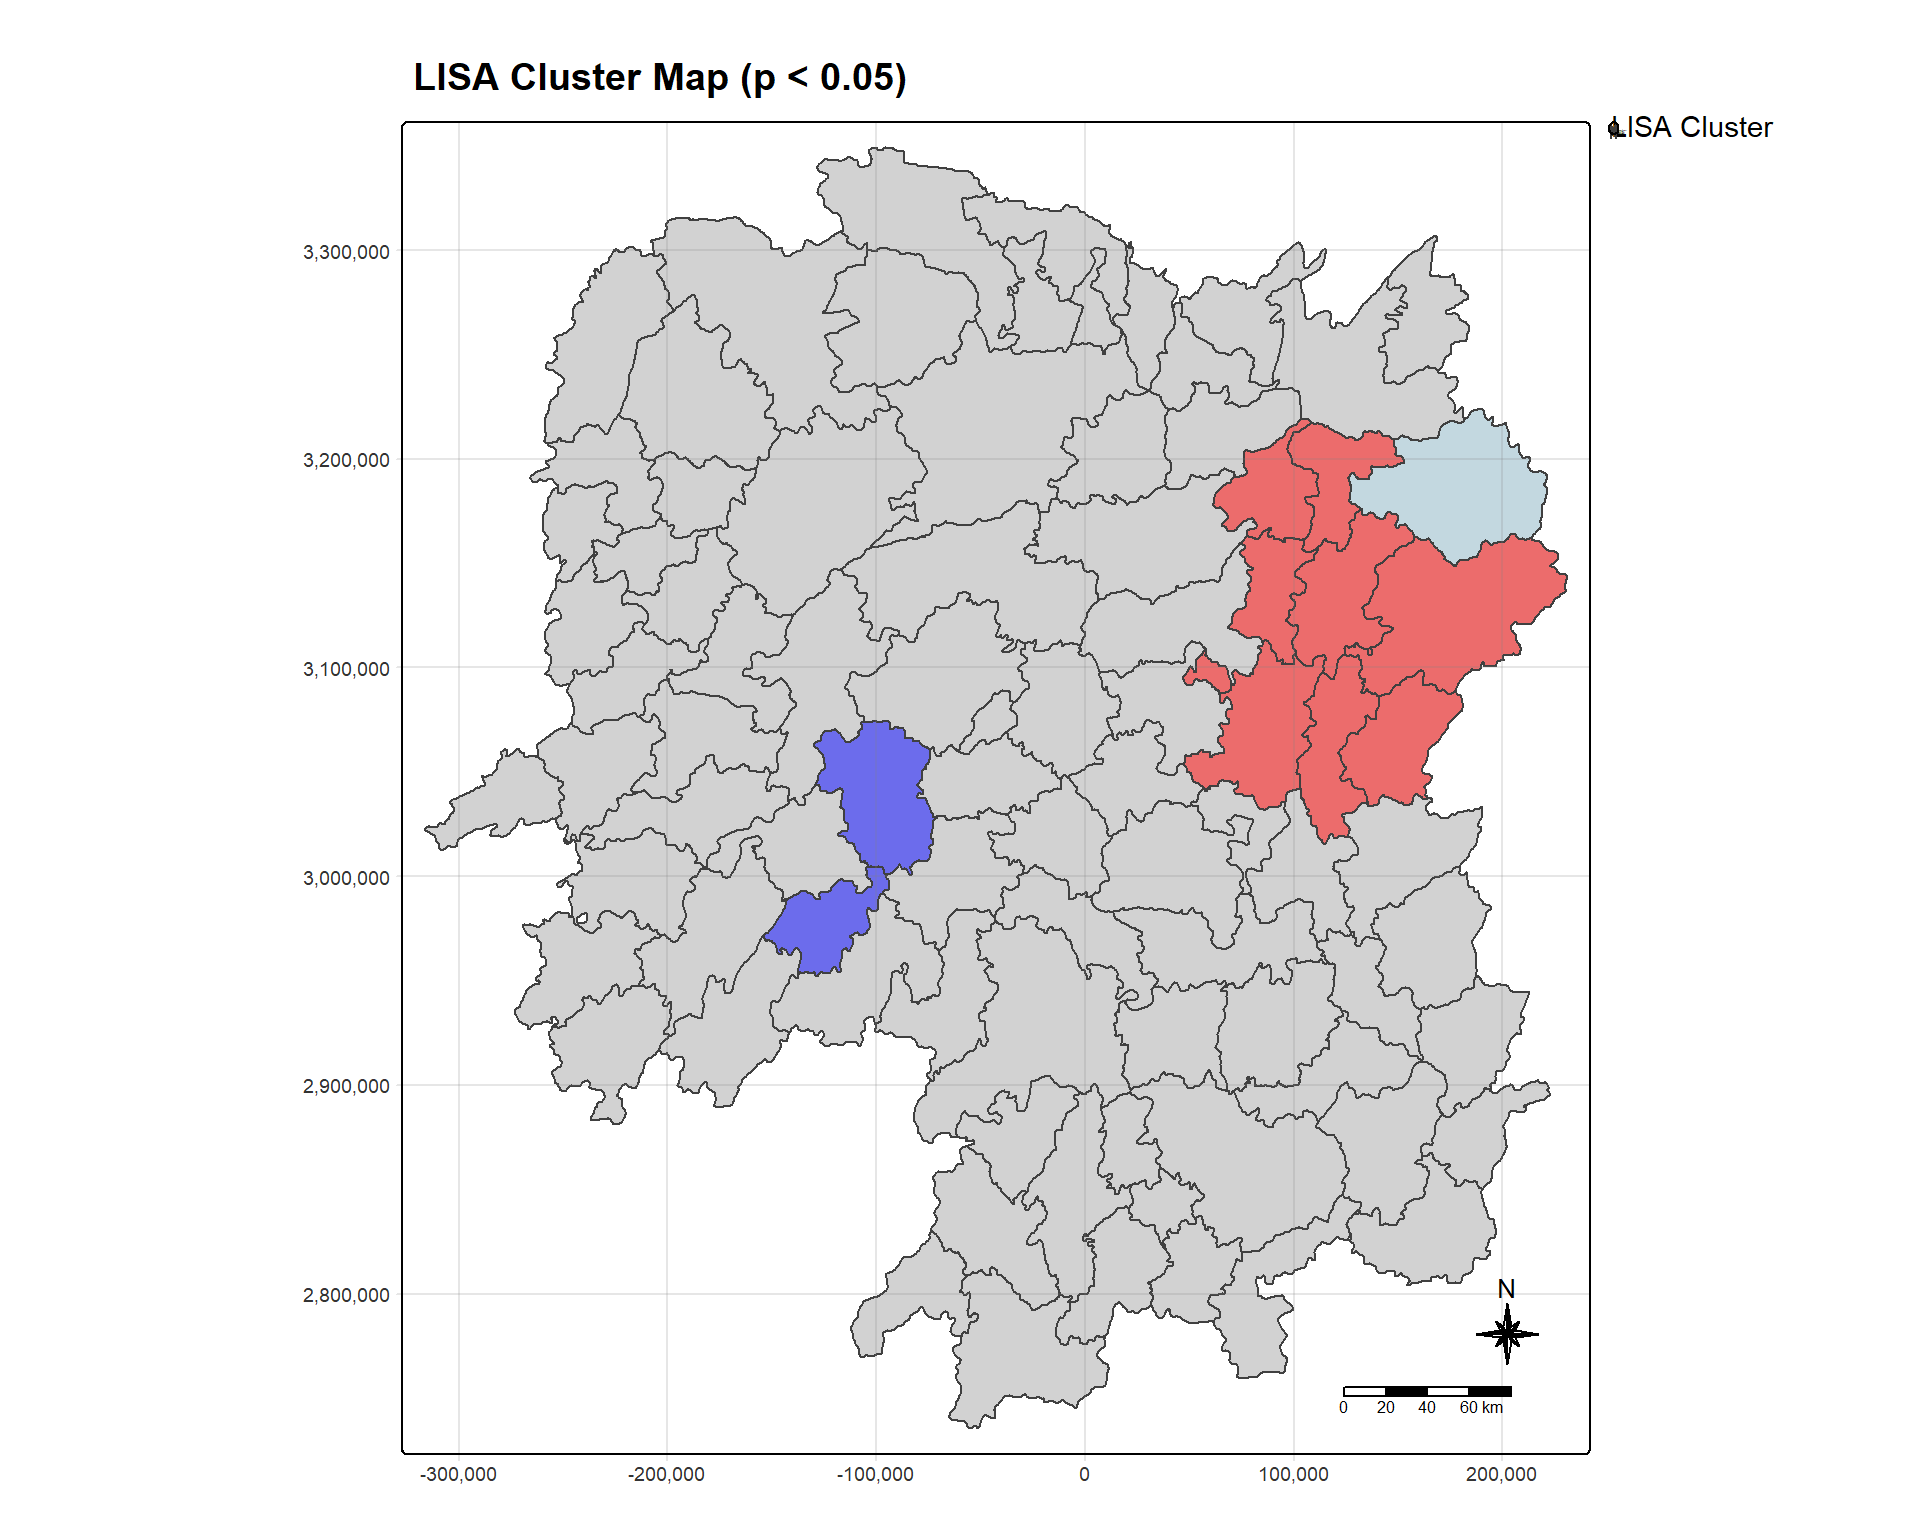
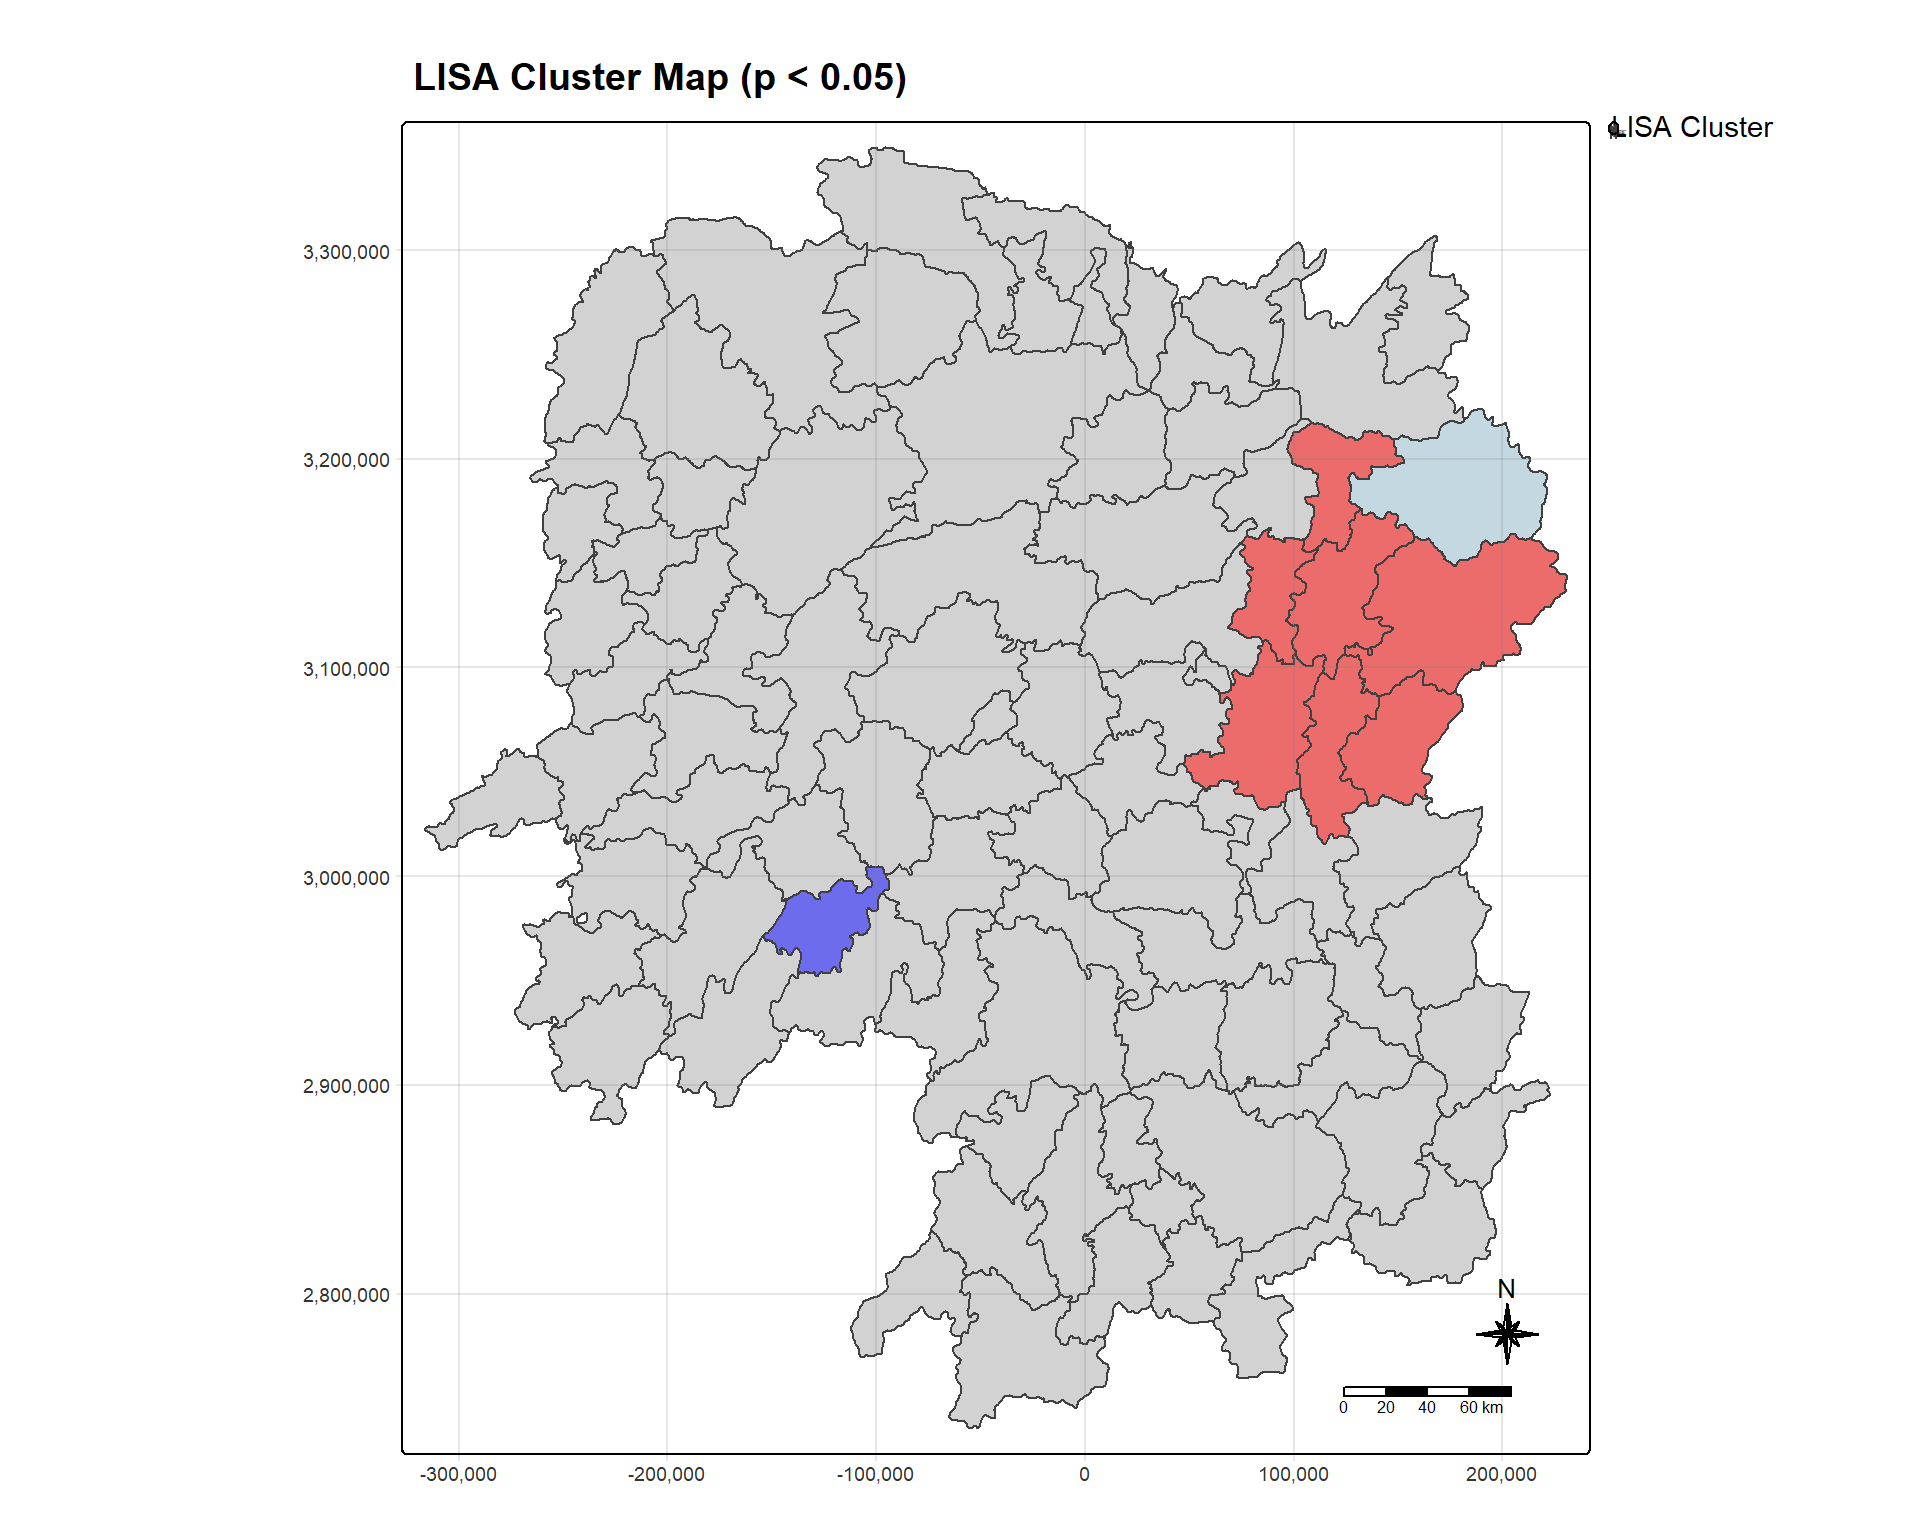
05ab

Changed region(s): [[0.4062, 0.4688, 0.5, 0.5625], [0.625, 0.2812, 0.6875, 0.375], [0.625, 0.4375, 0.6562, 0.4688]]

diff --git a/_site/Hands-on_Ex/Hands-on_ex05/ex05b.html b/_site/Hands-on_Ex/Hands-on_ex05/ex05b.html
@@ -6,8 +6,8 @@
 
 <meta name="viewport" content="width=device-width, initial-scale=1.0, user-scalable=yes">
 
-<meta name="author" content="Your Name">
-<meta name="dcterms.date" content="2025-11-07">
+<meta name="author" content="HUANG PENGXIN">
+<meta name="dcterms.date" content="2025-11-09">
 
 <title>Hands-on Exercise 05b: Local Measures of Spatial Autocorrelation – ISSS626 Portfolio — HUANG PENGXIN</title>
 <style>
@@ -301,14 +301,14 @@ pre > code.sourceCode > span > a:first-child::before { text-decoration: underlin
     <div>
     <div class="quarto-title-meta-heading">Author</div>
     <div class="quarto-title-meta-contents">
-             <p>Your Name </p>
+             <p>HUANG PENGXIN </p>
           </div>
   </div>
     
     <div>
     <div class="quarto-title-meta-heading">Published</div>
     <div class="quarto-title-meta-contents">
-      <p class="date">November 7, 2025</p>
+      <p class="date">November 9, 2025</p>
     </div>
   </div>
   
@@ -651,14 +651,14 @@ Link number distribution:
 <pre><code>Rows: 88
 Columns: 50
 $ ii           &lt;dbl&gt; -1.468468e-03, 2.587817e-02, -1.198765e-02, 1.022468e-03,…
-$ eii          &lt;dbl&gt; -5.031595e-06, 4.179725e-03, 2.258314e-03, 8.792440e-06, …
-$ var_ii       &lt;dbl&gt; 4.423043e-04, 1.101828e-02, 1.061694e-01, 4.994452e-06, 1…
-$ z_ii         &lt;dbl&gt; -0.06958460, 0.20671488, -0.04372119, 0.45358108, 0.39958…
-$ p_ii         &lt;dbl&gt; 0.9445242908, 0.8362325383, 0.9651266470, 0.6501303708, 0…
-$ p_ii_sim     &lt;dbl&gt; 0.828, 0.952, 0.812, 0.572, 0.608, 0.808, 0.024, 0.100, 0…
-$ p_folded_sim &lt;dbl&gt; 0.414, 0.476, 0.406, 0.286, 0.304, 0.404, 0.012, 0.050, 0…
-$ skewness     &lt;dbl&gt; -0.7867148, -0.8685058, 0.8664268, 0.8163783, 1.1171427, …
-$ kurtosis     &lt;dbl&gt; 0.5687998, 0.5171958, 0.3141648, 0.5230209, 1.8978968, 0.…
+$ eii          &lt;dbl&gt; -0.0027018573, 0.0017729527, -0.0149303475, 0.0001900152,…
+$ var_ii       &lt;dbl&gt; 5.007875e-04, 1.055268e-02, 1.162730e-01, 5.726521e-06, 1…
+$ z_ii         &lt;dbl&gt; 0.055115474, 0.234654935, 0.008629922, 0.347867652, 0.409…
+$ p_ii         &lt;dbl&gt; 0.9560464684, 0.8144765678, 0.9931144036, 0.7279395799, 0…
+$ p_ii_sim     &lt;dbl&gt; 0.948, 0.964, 0.808, 0.616, 0.580, 0.800, 0.040, 0.112, 0…
+$ p_folded_sim &lt;dbl&gt; 0.474, 0.482, 0.404, 0.308, 0.290, 0.400, 0.020, 0.056, 0…
+$ skewness     &lt;dbl&gt; -0.8133442, -0.9131156, 1.3251876, 0.8996939, 1.1218756, …
+$ kurtosis     &lt;dbl&gt; 0.6483140, 0.7990201, 2.9340595, 0.3343128, 1.2932311, 0.…
 $ mean         &lt;fct&gt; Low-High, Low-Low, High-Low, High-High, High-High, High-L…
 $ median       &lt;fct&gt; High-High, High-High, High-High, High-High, High-High, Hi…
 $ pysal        &lt;fct&gt; Low-High, Low-Low, High-Low, High-High, High-High, High-L…
@@ -950,7 +950,7 @@ $ geometry     &lt;POLYGON [m]&gt; POLYGON ((22320.48 3301894,..., POLYGON ((355
 <div class="cell-output cell-output-stdout">
 <pre><code>
 Insignificant     High-High       Low-Low      Low-High      High-Low 
-           76             9             2             1             0 </code></pre>
+           79             7             1             1             0 </code></pre>
 </div>
 </div>
 </section>
@@ -1140,14 +1140,14 @@ Link number distribution:
 Columns: 48
 $ gi_star      &lt;dbl&gt; 0.38306332, -0.34046184, 0.23257243, 0.36406563, 0.364065…
 $ cluster      &lt;fct&gt; Low, Low, High, High, High, High, High, High, High, Low, …
-$ e_gi         &lt;dbl&gt; 0.011254385, 0.010951719, 0.012238394, 0.011316908, 0.011…
-$ var_gi       &lt;dbl&gt; 7.030617e-06, 7.748785e-06, 7.671638e-06, 9.048618e-06, 9…
-$ std_dev      &lt;dbl&gt; 0.43869732, -0.22290144, -0.06120218, 0.42831922, 0.35163…
-$ p_value      &lt;dbl&gt; 6.608809e-01, 8.236122e-01, 9.511982e-01, 6.684187e-01, 7…
-$ p_sim        &lt;dbl&gt; 0.590, 0.958, 0.892, 0.552, 0.556, 0.906, 0.040, 0.044, 0…
-$ p_folded_sim &lt;dbl&gt; 0.295, 0.479, 0.446, 0.276, 0.278, 0.447, 0.020, 0.022, 0…
-$ skewness     &lt;dbl&gt; 1.0057872, 1.0211726, 1.1521531, 1.0204971, 1.1530047, 2.…
-$ kurtosis     &lt;dbl&gt; 1.0752646, 0.9456147, 2.1028553, 0.9295575, 1.2587780, 4.…
+$ e_gi         &lt;dbl&gt; 0.011339108, 0.011027381, 0.012269291, 0.011214019, 0.011…
+$ var_gi       &lt;dbl&gt; 6.697235e-06, 7.256003e-06, 7.869864e-06, 8.942393e-06, 9…
+$ std_dev      &lt;dbl&gt; 0.416745448, -0.258434688, -0.071440076, 0.465262403, 0.3…
+$ p_value      &lt;dbl&gt; 6.768646e-01, 7.960714e-01, 9.430475e-01, 6.417436e-01, 7…
+$ p_sim        &lt;dbl&gt; 0.604, 0.974, 0.868, 0.490, 0.584, 0.926, 0.042, 0.030, 0…
+$ p_folded_sim &lt;dbl&gt; 0.302, 0.487, 0.434, 0.245, 0.292, 0.458, 0.021, 0.015, 0…
+$ skewness     &lt;dbl&gt; 0.8481757, 1.0644657, 1.0778753, 1.5204125, 1.1792646, 2.…
+$ kurtosis     &lt;dbl&gt; 0.2765997, 1.2755026, 1.2244340, 4.2130765, 1.6694175, 4.…
 $ nb           &lt;nb&gt; &lt;2, 3, 4, 57, 85&gt;, &lt;1, 57, 58, 78, 85&gt;, &lt;1, 4, 5, 85&gt;, &lt;1,…
 $ wt           &lt;list&gt; &lt;0.2, 0.2, 0.2, 0.2, 0.2&gt;, &lt;0.2, 0.2, 0.2, 0.2, 0.2&gt;, &lt;0…
 $ NAME_2       &lt;chr&gt; "Changde", "Changde", "Changde", "Changde", "Changde", "C…
@@ -1210,14 +1210,14 @@ $ geometry     &lt;POLYGON [m]&gt; POLYGON ((22320.48 3301894,..., POLYGON ((355
 Columns: 48
 $ gi_star      &lt;dbl&gt; 0.24600226, 0.21329499, 0.24600226, 0.21343577, -0.007866…
 $ cluster      &lt;fct&gt; Low, Low, High, High, High, High, High, High, High, Low, …
-$ e_gi         &lt;dbl&gt; 0.01129003, 0.01115470, 0.01179819, 0.01143186, 0.0116048…
-$ var_gi       &lt;dbl&gt; 4.783271e-06, 4.576758e-06, 4.830319e-06, 4.821283e-06, 5…
-$ std_dev      &lt;dbl&gt; 0.28167764, 0.31751238, 0.04909104, 0.18326923, -0.110502…
-$ p_value      &lt;dbl&gt; 7.781907e-01, 7.508548e-01, 9.608467e-01, 8.545868e-01, 9…
-$ p_sim        &lt;dbl&gt; 0.704, 0.672, 0.844, 0.778, 0.958, 0.686, 0.004, 0.092, 0…
-$ p_folded_sim &lt;dbl&gt; 0.352, 0.336, 0.422, 0.389, 0.479, 0.343, 0.002, 0.046, 0…
-$ skewness     &lt;dbl&gt; 0.8205124, 0.6688263, 0.7986046, 0.6748990, 0.9112671, 0.…
-$ kurtosis     &lt;dbl&gt; 0.92733254, 0.38518126, 0.83154947, 0.61541898, 1.4072177…
+$ e_gi         &lt;dbl&gt; 0.01138771, 0.01117602, 0.01177925, 0.01137258, 0.0114014…
+$ var_gi       &lt;dbl&gt; 4.781272e-06, 4.769421e-06, 4.675849e-06, 5.129451e-06, 5…
+$ std_dev      &lt;dbl&gt; 0.23706627, 0.30126824, 0.05865463, 0.20385196, -0.024441…
+$ p_value      &lt;dbl&gt; 8.126054e-01, 7.632100e-01, 9.532272e-01, 8.384692e-01, 9…
+$ p_sim        &lt;dbl&gt; 0.740, 0.734, 0.870, 0.730, 0.906, 0.752, 0.004, 0.086, 0…
+$ p_folded_sim &lt;dbl&gt; 0.370, 0.367, 0.435, 0.365, 0.453, 0.376, 0.002, 0.043, 0…
+$ skewness     &lt;dbl&gt; 0.7006805, 0.5965757, 0.4989010, 0.7721328, 0.7640795, 0.…
+$ kurtosis     &lt;dbl&gt; 0.68998634, 0.25044971, -0.30885563, 0.68579425, 0.457197…
 $ nb           &lt;nb&gt; &lt;2, 3, 4, 57, 85&gt;, &lt;1, 57, 58, 78, 85&gt;, &lt;1, 4, 5, 85&gt;, &lt;1,…
 $ wt           &lt;list&gt; &lt;0.2, 0.2, 0.2, 0.2, 0.2&gt;, &lt;0.2, 0.2, 0.2, 0.2, 0.2&gt;, &lt;0…
 $ NAME_2       &lt;chr&gt; "Changde", "Changde", "Changde", "Changde", "Changde", "C…
@@ -1383,7 +1383,7 @@ $ geometry     &lt;POLYGON [m]&gt; POLYGON ((22320.48 3301894,..., POLYGON ((355
 <div class="cell-output cell-output-stdout">
 <pre><code>
 Insignificant      Hot spot     Cold spot 
-           76             7             5 </code></pre>
+           77             7             4 </code></pre>
 </div>
 </div>
 <p>Now plot the HCSA map:</p>

diff --git a/_site/Hands-on_Ex/Hands-on_ex05/ex05a.html b/_site/Hands-on_Ex/Hands-on_ex05/ex05a.html
@@ -6,8 +6,8 @@
 
 <meta name="viewport" content="width=device-width, initial-scale=1.0, user-scalable=yes">
 
-<meta name="author" content="Your Name">
-<meta name="dcterms.date" content="2025-11-07">
+<meta name="author" content="HUANG PENGXIN">
+<meta name="dcterms.date" content="2025-11-09">
 
 <title>Hands-on Exercise 05a: Global Measures of Spatial Autocorrelation – ISSS626 Portfolio — HUANG PENGXIN</title>
 <style>
@@ -300,14 +300,14 @@ pre > code.sourceCode > span > a:first-child::before { text-decoration: underlin
     <div>
     <div class="quarto-title-meta-heading">Author</div>
     <div class="quarto-title-meta-contents">
-             <p>Your Name </p>
+             <p>HUANG PENGXIN </p>
           </div>
   </div>
     
     <div>
     <div class="quarto-title-meta-heading">Published</div>
     <div class="quarto-title-meta-contents">
-      <p class="date">November 7, 2025</p>
+      <p class="date">November 9, 2025</p>
     </div>
   </div>
   
